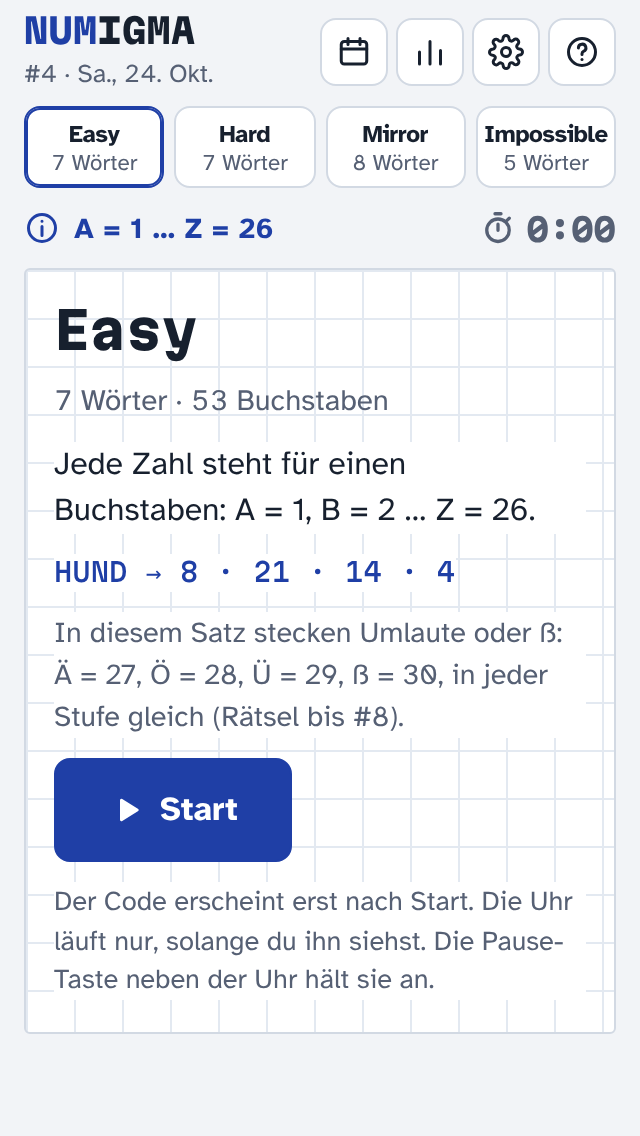
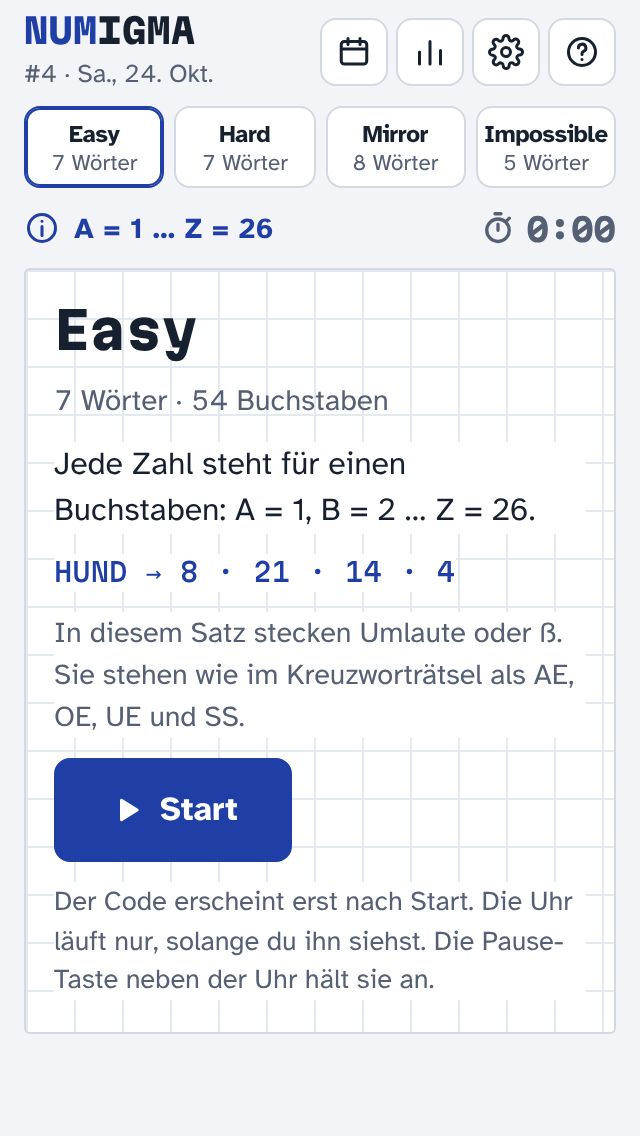
Auch im Archiv nur A–Z: #1–#8 mit AE, OE, UE, SS, Spielstände werden umgeschrieben
- Das Spiel kennt nur noch die 26 Buchstaben A–Z, an allen Tagen. In #1–#8 stehen Ä, Ö, Ü, ß wie im
  Kreuzworträtsel als AE, OE, UE, SS; Sätze, Stufen und Verschiebung bleiben gleich.
- Feste Zahlen 27–30 und Umlaut-Tasten entfernt; überall 26 Buchstabentasten, ä/ß am Computer → AE/SS.
- Gespeicherte Spielstände von #1–#8 werden beim Öffnen umgeschrieben (Ä → AE …): gelöst bleibt gelöst,
  Zeit bleibt, angefangene Buchstaben und Tipps rücken an die richtige Stelle.
- Tests 66/66 (neu: Spielstand-Umschreibung, Archiv #8 mit 26 Tasten, echte Taste ü bei #4).

Claude-Session: https://claude.ai/code/session_01UizJ3MfA2PHDqjVNM3Cj6o

Changed region(s): [[0.0625, 0.5854, 0.9062, 0.647], [0.3125, 0.3389, 0.375, 0.3697]]

diff --git a/kern.js b/kern.js
@@ -13,9 +13,9 @@ const CONFIG = {
   hintsPerPuzzle: 3,
   maxCells: 18,               // so viele Kästchen passen auf kleinen Handys (360 px) in eine Zeile
   frozenDays: 8,              // #1–#8 behalten ihre ursprüngliche Zuordnung (nicht ändern)
-  // Ab diesem Tag (#9) gibt es nur A–Z: deutsche Sätze ohne Ä, Ö, Ü, ß (die Prüfung meldet sonst einen Fehler).
-  // Käme doch eines vor (z. B. bei einer Wiederholung von #1–#8), stünde es wie im Kreuzworträtsel als AE, OE, UE, SS.
-  // #1–#8 hatten Ä, Ö, Ü, ß mit den festen Zahlen 27–30. Nicht ändern, sonst ändern sich erschienene Rätsel.
+  // Das Spiel kennt nur die 26 Buchstaben A–Z, in jeder Stufe. Ab diesem Tag (#9) haben die deutschen Sätze
+  // kein Ä, Ö, Ü, ß mehr (die Prüfung meldet sonst einen Fehler). In #1–#8 stehen Umlaute seit dem 28.10.2026
+  // wie im Kreuzworträtsel als AE, OE, UE, SS (vorher hatten sie die Zahlen 27–30).
   lettersFrom: '2026-10-29',
   warnDays: 14,               // Warnung, wenn der Faktenvorrat für weniger Tage reicht
   // Nur nötig, falls der Vorrat einmal ausgegangen ist: Zeiträume, in denen Wiederholungen liefen.
@@ -44,13 +44,11 @@ const TOPICS = {
   oesterreich: { de: 'Österreich', en: 'Austria' }
 };
 
-// Alphabet ab #9: A–Z, Umlaute als AE, OE, UE, SS (siehe CONFIG.lettersFrom).
-// Bis #8: A–Z plus Ä, Ö, Ü, ß mit festen Zahlen 27–30 (in jeder Stufe gleich), damit erschienene Rätsel gleich bleiben.
-const ALPHABET = [...'ABCDEFGHIJKLMNOPQRSTUVWXYZÄÖÜß'];
-const SPECIAL = { 'Ä': 27, 'Ö': 28, 'Ü': 29, 'ß': 30 };
+// Alphabet: nur A–Z. Umlaute in älteren Sätzen (#1–#8) stehen wie im Kreuzworträtsel als AE, OE, UE, SS.
+const ALPHABET = [...'ABCDEFGHIJKLMNOPQRSTUVWXYZ'];
 const DIGRAPH = { 'Ä': 'AE', 'Ö': 'OE', 'Ü': 'UE', 'ß': 'SS' };
 
-// Text → Symbole: Großbuchstaben A–Z, Ä, Ö, Ü, ß; Akzente weg, alles andere raus
+// Text → Symbole: Großbuchstaben A–Z, Ä, Ö, Ü, ß; Akzente weg, alles andere raus (auch für Satzlängen und die Prüfung)
 function symStr(str) {
   let out = '';
   for (const c0 of String(str).normalize('NFC')) {
@@ -63,15 +61,12 @@ function symStr(str) {
   return out;
 }
 
-// Wort für die Kästchen: ab #9 nur A–Z (Ä → AE, Ö → OE, Ü → UE, ß → SS), bis #8 mit Ä, Ö, Ü, ß
-function plainOf(str, az) {
-  const s = symStr(str);
-  return az ? s.replace(/[ÄÖÜß]/g, c => DIGRAPH[c]) : s;
+// Wort für die Kästchen: nur A–Z (Ä → AE, Ö → OE, Ü → UE, ß → SS)
+function plainOf(str) {
+  return symStr(str).replace(/[ÄÖÜß]/g, c => DIGRAPH[c]);
 }
-const azDay = idx => idx >= dayIndex(CONFIG.lettersFrom);
 
 function letterCode(ch, mode, shift) {
-  if (SPECIAL[ch]) return SPECIAL[ch];
   const n = ch.charCodeAt(0) - 64;
   if (mode === 'mirror') return 27 - n;
   if (mode === 'impossible') return ((n - 1 + shift) % 26) + 1;
@@ -135,10 +130,10 @@ function assignment(dayIdx, lang) {
   return [s[1], s[3], s[2], s[0]];   // easy, hard, mirror, impossible
 }
 
-function makePuzzle(fact, mode, shift, az) {
-  const words = fact.t.split(/\s+/).map(w => ({ show: w, plain: plainOf(w, az) })).filter(w => w.plain);
+function makePuzzle(fact, mode, shift) {
+  const words = fact.t.split(/\s+/).map(w => ({ show: w, plain: plainOf(w) })).filter(w => w.plain);
   words.forEach(w => { w.codes = [...w.plain].map(ch => letterCode(ch, mode, shift)); });
-  return { fact, mode, words, sig: words.map(w => w.plain).join(' '), az: !!az };
+  return { fact, mode, words, sig: words.map(w => w.plain).join(' '), az: true };
 }
 
 // Ist der Vorrat aufgebraucht, wird ein früherer Tag bewusst und sichtbar wiederholt (repeatOf).
@@ -161,9 +156,10 @@ function buildDay(key, lang) {
   const so = sourceOf(idx), src = so.src, repeatOf = so.repeat ? src + 1 : null;
   const picks = assignment(src, lang);
   const shift = 3 + Math.floor(mulberry32(idx * 7919 + 101)() * 21); // 3 … 23
-  const az = azDay(idx), puzzles = {};
-  MODES.forEach((m, i) => { puzzles[m.id] = makePuzzle(view(picks[i], lang), m.id, shift, az); });
-  return { key, lang, number: idx + 1, shift, puzzles, repeatOf, az };
+  const puzzles = {};
+  MODES.forEach((m, i) => { puzzles[m.id] = makePuzzle(view(picks[i], lang), m.id, shift); });
+  // az: nur A–Z (seit 28.10.2026 an allen Tagen). Ältere Stände von kern.js kennen das Feld nicht.
+  return { key, lang, number: idx + 1, shift, puzzles, repeatOf, az: true };
 }
 
 // Breite eines Worts in Kästchen. Easy: eine Zahl pro Buchstaben-Kästchen. Sonst: zwei Ziffern pro Kästchen.
@@ -174,7 +170,7 @@ function wordUnits(w, mode) {
 
 /* ------------------------------------------------------------ Prüfungen für Redaktion und Tests */
 function worstUnits(word) {
-  const p = plainOf(word, true), w = { plain: p, codes: [] };   // künftige Tage: Umlaute als AE, OE, UE, SS
+  const p = plainOf(word), w = { plain: p, codes: [] };
   let worst = [...p].length;
   ['hard', 'mirror'].forEach(m => { w.codes = [...p].map(c => letterCode(c, m, 0)); worst = Math.max(worst, wordUnits(w, m)); });
   for (let s = 3; s <= 23; s++) { w.codes = [...p].map(c => letterCode(c, 'impossible', s)); worst = Math.max(worst, wordUnits(w, 'impossible')); }
@@ -229,6 +225,6 @@ function checkFacts(today) {
   return out;
 }
 
-window.NF = { CONFIG, MODES, TOPICS, ALPHABET, SPECIAL, DIGRAPH, FROZEN, symStr, plainOf, letterCode, mulberry32, todayKey, parseKey, dayIndex, addDays, keyOfNumber,
+window.NF = { CONFIG, MODES, TOPICS, ALPHABET, DIGRAPH, FROZEN, symStr, plainOf, letterCode, mulberry32, todayKey, parseKey, dayIndex, addDays, keyOfNumber,
   list, facts, byId, plannedDays, lastPlannedDay, sourceOf, assignment, buildDay, wordUnits, checkFacts };
 })();

diff --git a/_dev/tests/spiel.test.js b/_dev/tests/spiel.test.js
@@ -679,7 +679,7 @@ test('Schnell tippen: nach einem vollen, falschen Wort geht es im nächsten weit
   assert.equal(await page.isVisible('#coach'), false, 'Hinweis verschwindet, wenn das Wort stimmt');
   assert.equal(await page.getAttribute('.w[data-w="1"]', 'aria-current'), 'true', 'weiter im angefangenen Wort');
   await page.keyboard.type('CKERWUERFEL');
-  assert.equal((await typed())[1], 'ZUCKERWÜRFEL');
+  assert.equal((await typed())[1], 'ZUCKERWUERFEL');
   // Antippen des letzten Kästchens eines vollen, falschen Worts: Überschreiben, nicht springen
   await page.keyboard.type('NEUTRONENSTERX');
   await page.click('.c[data-w="2"][data-i="13"]');
@@ -721,23 +721,49 @@ test('Ab #9 nur 26 Buchstaben: Tastatur ohne Ä Ö Ü ß, Sätze ohne Umlaute; d
   await page.keyboard.press('Escape');
   noErrors(page);
   await page.context().close();
-  // Archiv #8: so, wie es erschienen ist, mit Ä Ö Ü ß auf der Tastatur und der alten Regel
+  // Archiv #8 (KÄNGURUS KÖNNEN …): auch dort nur 26 Tasten, Umlaute wie im Kreuzworträtsel
   const old = await openPage(env, { time: '2026-10-29T10:00:00+01:00', url: '?n=8&m=mirror' });
   assert.equal(await issueNumber(old), 8);
-  assert.equal(await old.$$eval('#kb .k[data-k="Ä"], #kb .k[data-k="ß"]', k => k.length), 2, 'Archiv #8 hat die Umlaut-Tasten');
-  assert.match((await old.textContent('#startCard .note')).replace(/\u00a0/g, ' '), /Ä = 27, Ö = 28, Ü = 29, ß = 30/);
+  assert.equal(await old.$$eval('#kb .k[data-k="Ä"], #kb .k[data-k="ß"]', k => k.length), 0, 'keine Umlaut-Tasten, auch im Archiv');
+  assert.match((await old.textContent('#startCard .note')).replace(/\u00a0/g, ' '), /wie im Kreuzworträtsel als AE, OE, UE und SS/);
   await old.click('#startBtn');
   await old.keyboard.type('K');
   await umlautKey(old, 'ä');
   await old.keyboard.type('NGURUS');
   const o = await state(old, '2026-10-28', 'mirror');
-  assert.equal(o.typed[0], 'KÄNGURUS');
-  // zurück zu heute: wieder 26 Tasten
-  await old.click('#backToday');
-  assert.equal(await issueNumber(old), 9);
-  assert.equal(await old.$$eval('#kb .k[data-k="Ä"]', k => k.length), 0);
+  assert.equal(o.typed[0], 'KAENGURUS');
+  assert.ok(await old.isVisible('.w[data-w="0"].ok'));
   noErrors(old);
   await old.context().close();
+});
+
+test('Spielstände von #1–#8 mit Umlauten werden auf A–Z umgeschrieben: gelöst bleibt gelöst, Angefangenes bleibt an seiner Stelle', async () => {
+  const k4 = keyOf(4), k8 = keyOf(8);
+  const e4 = puzzle(4, 'de', 'easy'), m8 = puzzle(8, 'de', 'mirror');
+  assert.equal(e4.words[1].plain, 'ZUCKERWUERFEL');
+  // So waren die Stände bis 28.10.2026 gespeichert: Ä, Ö, Ü, ß als eigene Buchstaben
+  const oldSig = p => p.words.map(w => NF.symStr(w.show)).join(' ');
+  const old8 = NF.symStr(m8.words[0].show);                  // KÄNGURUS
+  const store0 = { v: 2, seenHelp: true, lang: 'de', days: {
+    [k4]: { easy: { sig: oldSig(e4), typed: oldSig(e4).split(' '), hints: { 1: [8] }, hintCount: 1, cuts: [], status: 'solved', elapsed: 95000, given: [], helped: [1], doneOn: k4 } },
+    [k8]: { mirror: { sig: oldSig(m8), typed: [old8.slice(0, 1) + '_' + old8.slice(2, 4)], hints: { 0: [3] }, hintCount: 1, cuts: [], status: 'playing', elapsed: 30000, given: [], helped: [0] } }
+  }, daysEn: {} };
+  assert.equal(store0.days[k4].easy.typed[1], 'ZUCKERWÜRFEL');
+  const page = await openPage(env, { time: '2026-10-29T10:00:00+01:00', store: store0, url: '?n=4&m=easy' });
+  assert.match(await page.textContent('#result'), /1:35/, 'gelöstes Rätsel bleibt gelöst, Zeit bleibt');
+  let s = await store(page);
+  assert.equal(s.days[k4].easy.status, 'solved');
+  assert.deepEqual(s.days[k4].easy.typed, Array.from(e4.words, w => w.plain));
+  assert.deepEqual(s.days[k4].easy.hints[1], [9], 'Tipp auf dem R nach dem Ü wandert mit');
+  // angefangenes #8: K _ N G (Ä leer) → K _ _ N G, Tipp auf dem G wandert mit
+  await page.goto(env.srv.url + '?n=8&m=mirror');
+  s = await store(page);
+  assert.equal(s.days[k8].mirror.sig, m8.sig);
+  assert.equal(s.days[k8].mirror.typed[0], 'K__NG');
+  assert.deepEqual(s.days[k8].mirror.hints[0], [4]);
+  assert.match(await page.textContent('#pauseCard'), /0:30/);
+  noErrors(page);
+  await page.context().close();
 });
 
 test('Archivleiste ist kurz und der Knopf passt daneben; das Ergebnis sagt, dass Archivrätsel nicht für die Serie zählen', async () => {
@@ -790,14 +816,17 @@ test('Vorrat erschöpft: Wiederholung wird offen angezeigt', async () => {
 });
 
 /* ------------------------------------------------------------ Tastatur und Korrektur */
-test('Tastatur: Umlaute als ae/ue, Pfeile, Rücktaste, Enter springt weiter', async () => {
+test('Tastatur: Umlaut-Wörter als AE/UE, echte Taste ü tippt UE, Pfeile, Rücktaste, Enter springt weiter', async () => {
   const page = await openPage(env);
   await page.click('#startBtn');
-  const sol = solution(4, 'de', 'easy');               // EIN ZUCKERWÜRFEL …
+  const sol = solution(4, 'de', 'easy');               // EIN ZUCKERWUERFEL …
+  assert.equal(sol[1], 'ZUCKERWUERFEL');
   await typeWord(page, sol[0]);
-  await page.keyboard.type('ZUCKERWUERFEL');
+  await page.keyboard.type('ZUCKERW');
+  await umlautKey(page, 'ü');                            // wie die Ü-Taste einer deutschen Tastatur
+  await page.keyboard.type('RFEL');
   let s = await state(page, K4, 'easy');
-  assert.equal(s.typed[1], 'ZUCKERWÜRFEL');
+  assert.equal(s.typed[1], 'ZUCKERWUERFEL');
   // falsches Wort: rot und gestrichelt, dann einzelnes Kästchen korrigieren
   await page.keyboard.type('NEUTRONENSTERX');
   assert.ok(await page.isVisible('.w[data-w="2"].bad'));

diff --git a/index.html b/index.html
@@ -669,11 +669,9 @@ const STR = {
     ruleTitle: m => `Regel: ${m}`,
     shiftShort: s => [`A = ${s + 1} … Z = ${s}`, `um ${s} verschoben`],
     shiftLong: (s, past) => `Heute ${past ? 'war es' : 'ist es'} um ${s} verschoben: A = ${s + 1}, B = ${s + 2} … Z = ${s}`,
-    // Ab #9 nur A–Z, die Sätze haben keine Umlaute (falls doch: wie im Kreuzworträtsel). Bis #8 (Archiv) hatten Ä, Ö, Ü, ß eigene Zahlen und Tasten.
-    umlauts: (used, az) => az ? 'In diesem Satz stecken Umlaute oder ß. Sie stehen wie im Kreuzworträtsel als AE, OE, UE und SS.'
-      : `${used ? 'In diesem Satz stecken Umlaute oder ß: ' : 'Umlaute und ß: '}Ä = 27, Ö = 28, Ü = 29, ß = 30, in jeder Stufe gleich (Rätsel bis #8).`,
+    // Nur A–Z. Ab #9 haben die Sätze keine Umlaute; in #1–#8 (Archiv) stehen sie wie im Kreuzworträtsel da.
+    umlauts: 'In diesem Satz stecken Umlaute oder ß. Sie stehen wie im Kreuzworträtsel als AE, OE, UE und SS.',
     keyrows: [[...'QWERTZUIOP'], [...'ASDFGHJKL'], ['next', ...'YXCVBNM', 'back']],
-    keyrowsOld: [[...'QWERTZUIOPÜ'], [...'ASDFGHJKLÖÄ'], ['next', ...'YXCVBNMß', 'back']],
     shareHead: (n, a) => `${CONFIG.name} #${n}${a ? ' (Archiv)' : ''}`,
     beatOne: 'Schlägst du meine Zeit?', beatMany: 'Schlägst du meine Zeiten?', crackIt: "Schaffst du's?", notCracked: a => a ? 'Nicht geknackt 😅' : 'Heute nicht geknackt 😅'
   },
@@ -868,9 +866,28 @@ function upgrade(s) {
   }
   return s;
 }
+// Seit 28.10.2026 nur A–Z: Spielstände von #1–#8 mit Ä, Ö, Ü, ß umschreiben (Ä → AE …), statt sie zu verwerfen.
+// Gelöste Rätsel bleiben gelöst, angefangene behalten ihre Buchstaben und Tipps an der richtigen Stelle.
+function toAZ(s, p) {
+  const old = s.sig.split(' ');
+  s.typed = p.words.map((w, i) => {
+    const src = [...(old[i] || '')], t = [...(s.typed[i] || '')], out = [], map = [];
+    src.forEach((ch, j) => {
+      map[j] = out.length;
+      const c = t[j] && t[j] !== '_' ? t[j] : '_';
+      if (DIGRAPH[ch]) out.push(...(c === ch ? DIGRAPH[ch] : [c, '_'])); else out.push(c);
+    });
+    const hk = s.hints && s.hints[i];
+    if (Array.isArray(hk)) s.hints[i] = hk.map(k => map[k]).filter(k => k != null);
+    return out.join('').replace(/_+$/, '');
+  });
+  s.sig = p.sig;
+}
+const azSig = sig => sig.replace(/[ÄÖÜß]/g, c => DIGRAPH[c]);
 function msFor(key, id, p, l) {
   const st = dayState(key, l);
   let s = st[id];
+  if (s && typeof s === 'object' && typeof s.sig === 'string' && s.sig !== p.sig && azSig(s.sig) === p.sig && Array.isArray(s.typed)) { toAZ(s, p); save(); }
   if (!s || typeof s !== 'object' || s.sig !== p.sig) {
     s = st[id] = { sig: p.sig, typed: p.words.map(() => ''), hints: {}, hintCount: 0, cuts: [], status: 'open', elapsed: 0, given: [], helped: [] };
   }
@@ -1071,7 +1088,7 @@ function ruleHtml(withTip) {
   return `<p>${esc(r.text)}</p>` + (ex ? `<p class="ex">${esc(ex)}</p>` : '') +
     (withTip && current === 'impossible' && !finished(s) ? `<p class="tip">${esc(t.impTip)}</p>` : '') +
     (withTip && (current === 'hard' || current === 'mirror') && !finished(s) ? `<p class="tip">${esc(t.noNumbers)}</p>` : '') +
-    (t.umlauts && (um || (current === 'easy' && !p.az)) ? `<p class="note">${esc(t.umlauts(um, p.az))}</p>` : '');
+    (t.umlauts && um ? `<p class="note">${esc(t.umlauts)}</p>` : '');
 }
 
 function renderStart() {
@@ -1162,11 +1179,9 @@ function updateWord(wi) {
   if (act) we.el.setAttribute('aria-current', 'true'); else we.el.removeAttribute('aria-current');
 }
 
-let kbRows = '';
 function buildKeyboard() {
-  const t = T(), rows = day && !day.az && t.keyrowsOld ? t.keyrowsOld : t.keyrows;   // Archiv bis #8: mit Ä, Ö, Ü, ß
-  kbRows = lang + rows.flat().join('');
-  $('#kb').innerHTML = rows.map(row => '<div class="kr">' + row.map(k => {
+  const t = T();
+  $('#kb').innerHTML = t.keyrows.map(row => '<div class="kr">' + row.map(k => {
     if (k === 'next') return `<div class="k wide" data-k="next"><button type="button" aria-label="${esc(t.nextWord)}">${ICON.next}</button></div>`;
     if (k === 'back') return `<div class="k wide" data-k="back"><button type="button" aria-label="${esc(t.backspace)}">${ICON.back}</button></div>`;
     return `<div class="k" data-k="${k}"><button type="button"><b>${k}</b><i aria-hidden="true"></i></button></div>`;
@@ -1319,7 +1334,6 @@ function setMode(id, resume) {
 function setView(key, isArchive, mode, resume) {
   stopClock();
   day = buildDay(key, lang); archive = !!isArchive;
-  if (kbRows !== lang + ((!day.az && T().keyrowsOld) || T().keyrows).flat().join('')) buildKeyboard();
   const pick = mode && day.puzzles[mode] ? mode : (MODES.find(m => !finished(ms(m.id))) || MODES[0]).id;
   setMode(pick, resume);
 }
@@ -1388,7 +1402,7 @@ function nextCursor(cells, i, n) {
 function typeLetter(L) {
   const s = ms(current);
   if (s.status !== 'playing' || paused) return;
-  if (puz().az && DIGRAPH[L]) { [...DIGRAPH[L]].forEach(typeLetter); return; }   // ab #9: ä → A, E
+  if (DIGRAPH[L]) { [...DIGRAPH[L]].forEach(typeLetter); return; }   // nur A–Z: ä → A, E; ß → S, S
   ensureActive();
   if (aw == null) return;
   justAdvanced = false;

diff --git a/_dev/tests/daten.test.js b/_dev/tests/daten.test.js
@@ -42,27 +42,27 @@ test('Quellen haben Name und https-Adresse', () => {
   }));
 });
 
-test('Veröffentlichte Rätsel #1–#8 sind unverändert (Deutsch und Englisch)', () => {
-  // Am 28.10.2026 bekamen #9–#16 neue Fakten ohne Umlaute (vorher eingefroren, aber noch nicht erschienen).
+test('Veröffentlichte Rätsel #1–#8 behalten Sätze, Stufen und Verschiebung (Umlaute seit 28.10.2026 als AE, OE, UE, SS)', () => {
+  // Am 28.10.2026 bekamen #9–#16 neue Fakten ohne Umlaute (vorher eingefroren, aber noch nicht erschienen),
+  // und in #1–#8 stehen Ä, Ö, Ü, ß seitdem wie im Kreuzworträtsel als AE, OE, UE, SS: nur noch A–Z im ganzen Spiel.
   assert.equal(AZ_FROM, 9, 'Umstellung auf A–Z gilt ab #9 (29. Oktober 2026)');
   assert.equal(NF.CONFIG.frozenDays, 8);
   for (const lang of ['de', 'en']) {
     SNAP[lang].filter(day => day.n < AZ_FROM).forEach(day => {
       const d = NF.buildDay(NF.keyOfNumber(day.n), lang);
       assert.equal(d.shift, day.shift, `${lang} #${day.n}: Verschiebung`);
-      assert.deepEqual(MODES.map(m => d.puzzles[m].sig), day.sigs, `${lang} #${day.n}: Sätze oder Stufen geändert`);
+      assert.deepEqual(MODES.map(m => d.puzzles[m].sig), day.sigs.map(az), `${lang} #${day.n}: Sätze oder Stufen geändert`);
     });
   }
 });
 
-test('Ab #9 nur A–Z: deutsche Sätze ohne Ä, Ö, Ü, ß, Zahlen 1 bis 26 in jeder Stufe; #1–#8 wie erschienen', () => {
+test('Nur A–Z an allen Tagen, Zahlen 1 bis 26 in jeder Stufe; ab #9 deutsche Sätze ganz ohne Ä, Ö, Ü, ß', () => {
   for (let i = 0; i < NF.plannedDays(); i++) {
     for (const lang of ['de', 'en']) {
       const d = NF.buildDay(NF.addDays(NF.CONFIG.launchDate, i), lang);
-      assert.equal(d.az, i + 1 >= AZ_FROM, `#${i + 1}`);
-      if (!d.az) continue;
+      assert.equal(d.az, true, `#${i + 1}`);
       MODES.forEach(m => {
-        assert.doesNotMatch(d.puzzles[m].fact.t, /[ÄÖÜäöüßẞ]/, `${lang} #${i + 1} ${m}: ${d.puzzles[m].fact.t}`);
+        if (i + 1 >= AZ_FROM) assert.doesNotMatch(d.puzzles[m].fact.t, /[ÄÖÜäöüßẞ]/, `${lang} #${i + 1} ${m}: ${d.puzzles[m].fact.t}`);
         d.puzzles[m].words.forEach(w => {
           assert.match(w.plain, /^[A-Z]+$/, `${lang} #${i + 1} ${m}: ${w.plain}`);
           w.codes.forEach(c => assert.ok(c >= 1 && c <= 26, `${lang} #${i + 1} ${m}: Zahl ${c}`));
@@ -73,11 +73,11 @@ test('Ab #9 nur A–Z: deutsche Sätze ohne Ä, Ö, Ü, ß, Zahlen 1 bis 26 in j
   // Mirror ohne Ausnahme A = 26 … Z = 1
   const mir = NF.buildDay(NF.keyOfNumber(9), 'de').puzzles.mirror.words[0];
   assert.deepEqual(Array.from(mir.codes), [...mir.plain].map(c => 27 - (c.charCodeAt(0) - 64)));
-  // Notfalls (z. B. Wiederholung von #1–#8) stünden Umlaute wie im Kreuzworträtsel da
-  assert.equal(NF.plainOf('Grüße', true), 'GRUESSE');
-  assert.equal(NF.plainOf('Grüße', false), 'GRÜßE');
-  // #8 bleibt, wie es erschienen ist
-  assert.equal(NF.buildDay(NF.keyOfNumber(8), 'de').puzzles.easy.words[0].plain, 'FUßSPUREN');
+  // Umlaute in #1–#8 stehen wie im Kreuzworträtsel da
+  assert.equal(NF.plainOf('Grüße'), 'GRUESSE');
+  assert.equal(NF.buildDay(NF.keyOfNumber(8), 'de').puzzles.easy.words[0].plain, 'FUSSSPUREN');
+  assert.equal(NF.buildDay(NF.keyOfNumber(8), 'de').puzzles.mirror.words[0].plain, 'KAENGURUS');
+  assert.deepEqual([...NF.ALPHABET].join(''), 'ABCDEFGHIJKLMNOPQRSTUVWXYZ');
 });
 
 test('Rätsel, die schon irgendwo auf der Welt live sind, gleichen dem letzten Stand von main', t => {
@@ -148,16 +148,12 @@ test('Verschlüsselung: Easy, Hard, Mirror, Impossible und Umlaute', () => {
   assert.equal(NF.letterCode('Z', 'mirror', 0), 1);
   assert.equal(NF.letterCode('A', 'impossible', 3), 4);
   assert.equal(NF.letterCode('Z', 'impossible', 3), 3);
-  for (const m of MODES) {
-    assert.equal(NF.letterCode('Ä', m, 7), 27); assert.equal(NF.letterCode('Ö', m, 7), 28);
-    assert.equal(NF.letterCode('Ü', m, 7), 29); assert.equal(NF.letterCode('ß', m, 7), 30);
-  }
   assert.equal(NF.symStr('Grüße, café!'), 'GRÜßECAFE');
   assert.equal(NF.symStr('ẞ'), 'ß');
   const d = NF.buildDay('2026-10-24', 'de');
   MODES.forEach(m => d.puzzles[m].words.forEach(w => {
     assert.equal(w.codes.length, [...w.plain].length);
-    w.codes.forEach(c => assert.ok(c >= 1 && c <= 30));
+    w.codes.forEach(c => assert.ok(c >= 1 && c <= 26));
   }));
 });
 

diff --git a/_dev/KONZEPTE.md b/_dev/KONZEPTE.md
@@ -49,7 +49,7 @@ Die Prüfseite mit allen Lösungen liegt jetzt in `_dev/` und wird nicht mehr ve
 - **Zweite Rückmeldungsrunde (27. Oktober 2026):**
   - Umgesetzt: deutscher Slogan „Knacke den Code. Entdecke den Fakt.“ (Vorschaubild, Kurz-Einstieg, Anleitung, Linkvorschau). Akquise-Plan als eigenes Dokument (Kanal, Reddit, lokal), ohne Änderung am Spiel.
   - Nicht umgesetzt: **Umlaute bei Mirror spiegeln** (Ä = 27, Ö = 28, Ü = 29, ß = 30 gelten bewusst in jeder Stufe gleich; eine Änderung ginge nur für künftige Tage, dann gälten je nach Tag zwei Regeln). Überholt am 28. Oktober, siehe „Nur 26 Buchstaben ab #9“. **Strafzeit ab dem vierten Fehler** (zählbar wären nur ganze falsche Wörter; trifft vor allem Tippfehler bei Easy und das gewollte Ausprobieren bei Impossible; nach dem Test mit zehn Personen neu bewerten). **Notizen bei Mirror und Impossible** (zweiter Wunsch danach; ein Notizfeld legt am Handy die Systemtastatur über das Spiel; bauen, wenn beim Test mehrere es von selbst vermissen). **Zähler für Besuche** (braucht eine Änderung des Satzes „kein Tracking“; Entscheidung von Christian und Ervin, bis dahin Handzählung laut Akquise-Plan).
-- **Nur 26 Buchstaben ab #9 (entschieden am 28. Oktober 2026):** Ab #9 kommen in den Rätseln kein Ä, Ö, Ü und kein ß mehr vor (Entscheidung von Christian: „Es darf einfach keine Fakten mit Umlauten und ß mehr geben“). Grund: Bei Mirror passten die festen Zahlen 27–30 nicht zu A = 26 … Z = 1, und „mehr als 26“ verwirrt, weil jeder beim Alphabet bis 26 zählt. Umsetzung: neuer Fahrplan ab #9 nur aus Fakten, deren deutscher Satz keinen Umlaut hat (191 von 395 noch nicht erschienenen, reicht bis 14. Dezember 2026); die übrigen 204 liegen in `_dev/redaktion/geparkt-umlaute.js` und kommen umformuliert zurück. #9–#16 bekamen dafür neue Fakten (vorher eingefroren, aber noch nicht erschienen); #1–#8 bleiben, wie sie erschienen sind (im Archiv mit Umlaut-Tasten und altem Hinweis). Die deutsche Tastatur hat ab #9 nur noch 26 Buchstabentasten. Sicherheitsnetz: Käme doch ein Umlaut vor (etwa bei einer Wiederholung von #1–#8), stünde er wie im Kreuzworträtsel als AE, OE, UE, SS. Stichtag in `kern.js` (`CONFIG.lettersFrom`), nicht ändern.
+- **Nur 26 Buchstaben ab #9 (entschieden am 28. Oktober 2026):** Ab #9 kommen in den Rätseln kein Ä, Ö, Ü und kein ß mehr vor (Entscheidung von Christian: „Es darf einfach keine Fakten mit Umlauten und ß mehr geben“). Grund: Bei Mirror passten die festen Zahlen 27–30 nicht zu A = 26 … Z = 1, und „mehr als 26“ verwirrt, weil jeder beim Alphabet bis 26 zählt. Umsetzung: neuer Fahrplan ab #9 nur aus Fakten, deren deutscher Satz keinen Umlaut hat (191 von 395 noch nicht erschienenen, reicht bis 14. Dezember 2026); die übrigen 204 liegen in `_dev/redaktion/geparkt-umlaute.js` und kommen umformuliert zurück. #9–#16 bekamen dafür neue Fakten (vorher eingefroren, aber noch nicht erschienen). Auch im Archiv gilt nur A–Z (Entscheidung von Christian am selben Tag): In #1–#8 stehen Ä, Ö, Ü, ß wie im Kreuzworträtsel als AE, OE, UE, SS, Sätze und Stufen bleiben gleich. Gespeicherte Spielstände dieser Tage werden umgeschrieben, gelöste bleiben gelöst. Die Tastatur hat überall nur 26 Buchstabentasten; wer am Computer ä oder ß tippt, bekommt AE oder SS. Stichtag für Sätze ohne Umlaute in `kern.js` (`CONFIG.lettersFrom`), nicht ändern.
 - **Englische Tage #1–#16:** Die Zuordnung von Fakt zu Stufe weicht an sechs dieser Tage zwischen Deutsch und Englisch ab, weil sie so veröffentlicht wurde. Ab #17 ist sie in beiden Sprachen gleich.
 - **Name des Repositorys:** Die Adresse lautet weiter `…/numfact/`. Eine Umbenennung in `numigma` würde alle bisherigen Links brechen (GitHub leitet Pages-Adressen nicht weiter).
 - **Zahlen 0–9 für Jahreszahlen:** Würde neue Rätselarten ermöglichen, ändert aber die Regeln aller Stufen. Nicht umgesetzt.

diff --git a/_dev/README.md b/_dev/README.md
@@ -9,7 +9,7 @@ Dieser Ordner wird von GitHub Pages **nicht** veröffentlicht (Ordner mit `_` am
 | `tools/server.js` | Kleiner Webserver wie GitHub Pages (`npm run serve`) |
 | `tools/frozen.json` | Zuordnung von #1–#16 zum Zeitpunkt der Veröffentlichung |
 | `tests/` | Automatische Tests (siehe unten) |
-| `tests/veroeffentlicht-1-16.json` | Abzug der Rätsel #1–#16 vom Relaunch; geprüft werden seit 28.10.2026 nur noch #1–#8 (ab #9 neuer Fahrplan ohne Umlaute) |
+| `tests/veroeffentlicht-1-16.json` | Abzug der Rätsel #1–#16 vom Relaunch; geprüft werden seit 28.10.2026 nur noch #1–#8, Umlaute dort als AE, OE, UE, SS (ab #9 neuer Fahrplan ohne Umlaute) |
 | `redaktion/` | Anleitung für neue Fakten, Quellenprüfung, geparkte Fakten mit Umlaut (`geparkt-umlaute.js`) |
 | `nachweise/` | Bildschirmfotos vorher und nachher |
 
@@ -22,7 +22,7 @@ npx playwright install chromium
 npm test
 ```
 
-- `tests/daten.test.js`: Fakten (IDs, Themen, Satzregeln, Quellen, Kodierung), veröffentlichte Rätsel unverändert (Abzug #1–#8 und Vergleich mit `main` für alle Tage, die irgendwo auf der Welt schon live sind), ab #9 nur A–Z und Sätze ohne Umlaute, geparkte Fakten, gleiche Fakten in beiden Sprachen ab #9, kein Thema doppelt pro Tag, Verschlüsselung, Zeitzonen und Sommerzeit, Vorrat und Wiederholung.
+- `tests/daten.test.js`: Fakten (IDs, Themen, Satzregeln, Quellen, Kodierung), veröffentlichte Rätsel unverändert (Abzug #1–#8 und Vergleich mit `main` für alle Tage, die irgendwo auf der Welt schon live sind), nur A–Z an allen Tagen, ab #9 Sätze ohne Umlaute, geparkte Fakten, gleiche Fakten in beiden Sprachen ab #9, kein Thema doppelt pro Tag, Verschlüsselung, Zeitzonen und Sommerzeit, Vorrat und Wiederholung.
 - `tests/spiel.test.js`: im echten Browser (Chromium): Kurz-Einstieg und Erstbesuch über einen geteilten Link, Linkvorschau, Regelzeile, Links mit Nummer, Stufe und Sprache, Zeitzonen, Farben für Hilfe, alte Spielstände, Uhr und Pause, zwei Tabs, Teilen, Statistik und Serie, Tageswechsel, Vorrat erschöpft, Tastatur, Barrierefreiheit (axe), offline.
 - `tests/layout.test.js`: 320 bis 1280 px, Hoch- und Querformat, Deutsch und Englisch: nichts ragt hinaus, nichts überlappt, Tasten und Zahlen darauf groß genug, Regelzeile nicht abgeschnitten, längste Wörter passen in eine Zeile.
 
